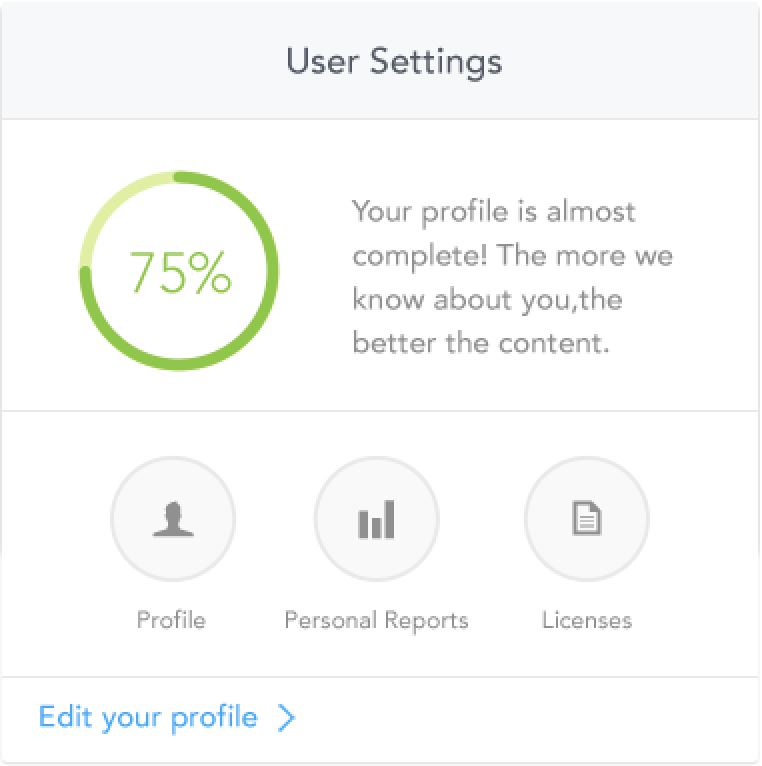
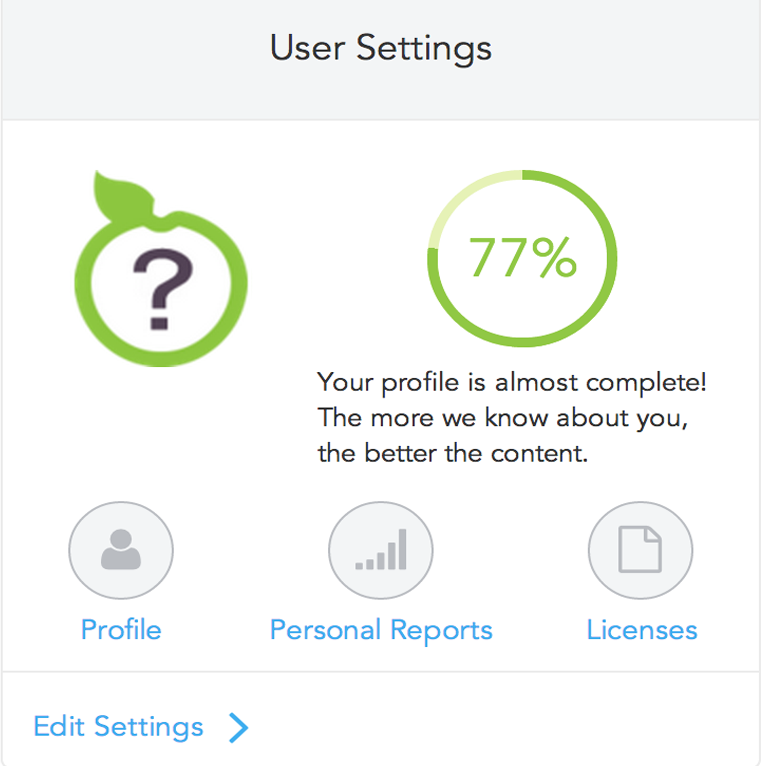
Fixed Widget UI and changed User Settings preview image (4972)

diff --git a/css/personalizedContent/widgets.less b/css/personalizedContent/widgets.less
@@ -512,7 +512,7 @@
 	}
 
 	.widget-settings-icon.active, .widget-settings-icon.opened {
-		color            : @pc-white !important;
+		color            : @pc-white;
 		background-color : #00A8FF;
 	}
 
@@ -726,7 +726,7 @@
 			height           : 36px;
 			font-size        : 14px;
 			width            : 140px;
-			margin-left      : 20px;
+			margin-left      : 40px;
 		}
 	}
 	#xs-widgets-panel-wrapper {
@@ -790,7 +790,7 @@
 	#queue-header.visible-lg {
 		.widget-settings-icon:hover {
 			color            : @pc-white;
-			background-color : @pc-white !important;
+			background-color : #00A8FF;
 		}
 	}
 

diff --git a/css/personalizedContent/customMedia.less b/css/personalizedContent/customMedia.less
@@ -122,7 +122,7 @@
 			#widget-settings-header {
 				ul {
 					li {
-						margin-right : 5px !important;
+						margin-right : 5px;
 					}
 				}
 			}
